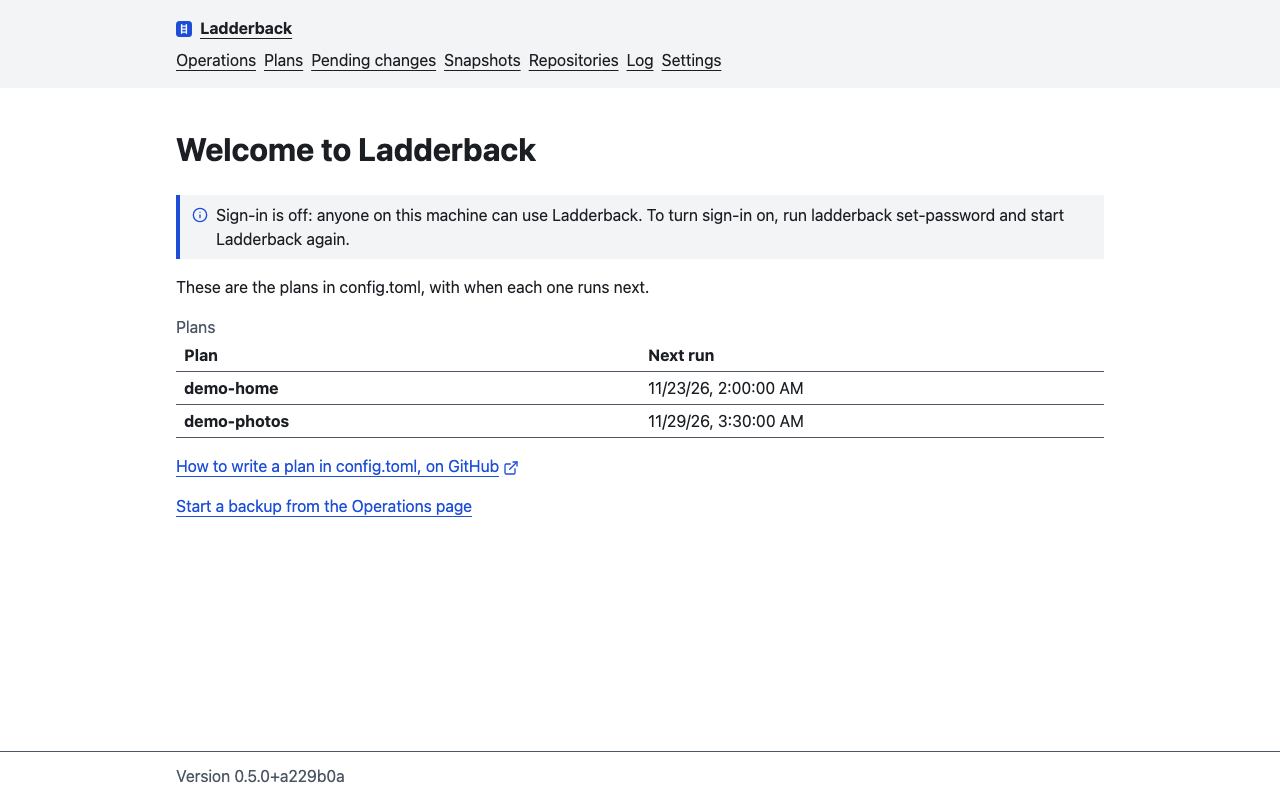
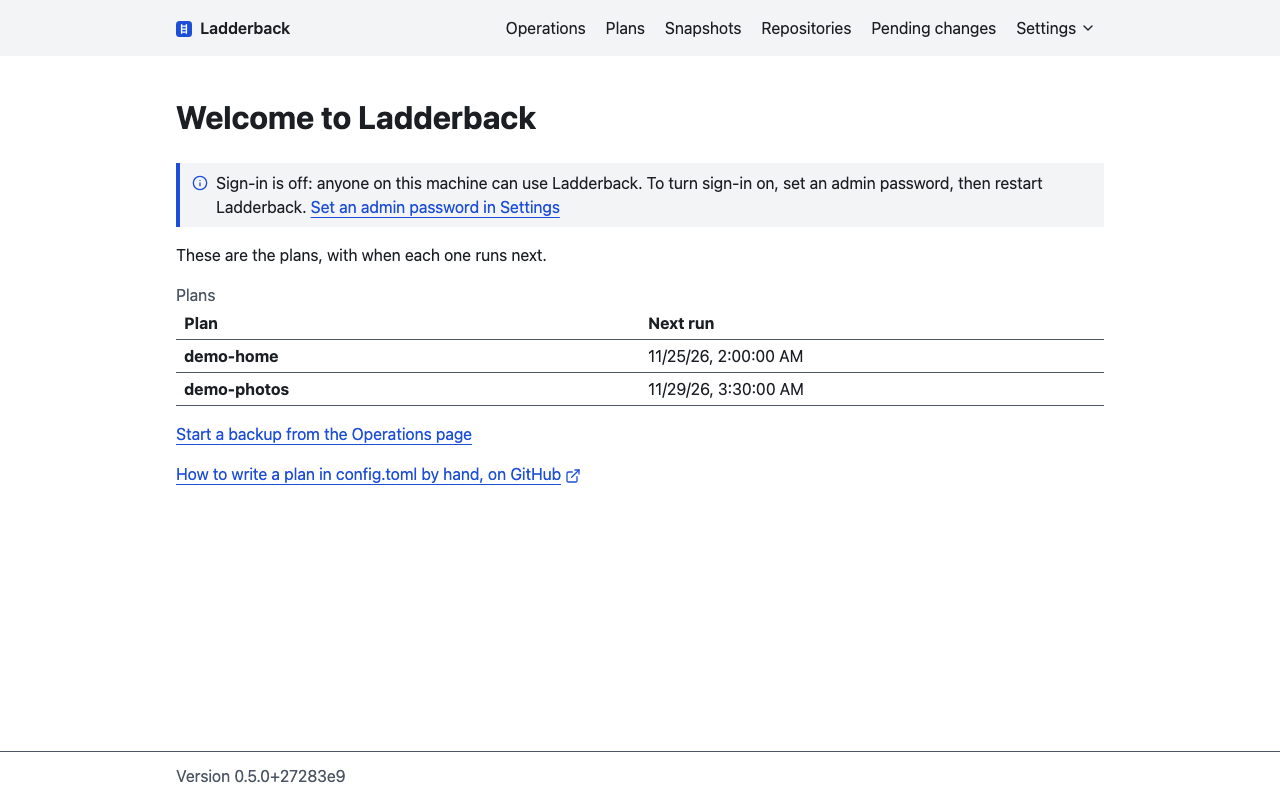
docs: retake the README's screenshot, with a dark version (#1511)
The screenshot showed the two-row header and a sign-in note that named `ladderback set-password`, which the Admin password tab replaced. Retaken from `just try --demo` after the one-line header (#1496), at 1280 by 800, in light and dark colors; the README picks one by the reader's color scheme, as it does for the logo.

diff --git a/README.md b/README.md
@@ -14,7 +14,10 @@ Ladderback backs up your computers on a schedule, shows your backups in one web 
 > [!WARNING]
 > **Ladderback is new software.** Version 0.5.0 runs scheduled backups and restores from them in your browser, but restores arrived only in 0.4.0. Before you rely on these backups, try restoring a file into a scratch folder. The `rustic` command-line program restores from any repository Ladderback backs up to, and stays your fallback. Until the hub (M8), each computer runs its own Ladderback, with its own web page. The [roadmap](#roadmap) has the order.
 
-![Ladderback's start page: the menu of pages, a note that sign-in is off, and a table of two plans, demo-home and demo-photos, each with the date and time of its next run.](docs/guide/start-page.png)
+<picture>
+  <source media="(prefers-color-scheme: dark)" srcset="docs/guide/start-page-dark.png">
+  <img src="docs/guide/start-page.png" alt="Ladderback's start page: a header with the pages' links and a Settings menu, a note that sign-in is off with a link to set an admin password, and a table of two plans, demo-home and demo-photos, each with the date and time of its next run." width="1280" height="800">
+</picture>
 
 ## What it does
 
